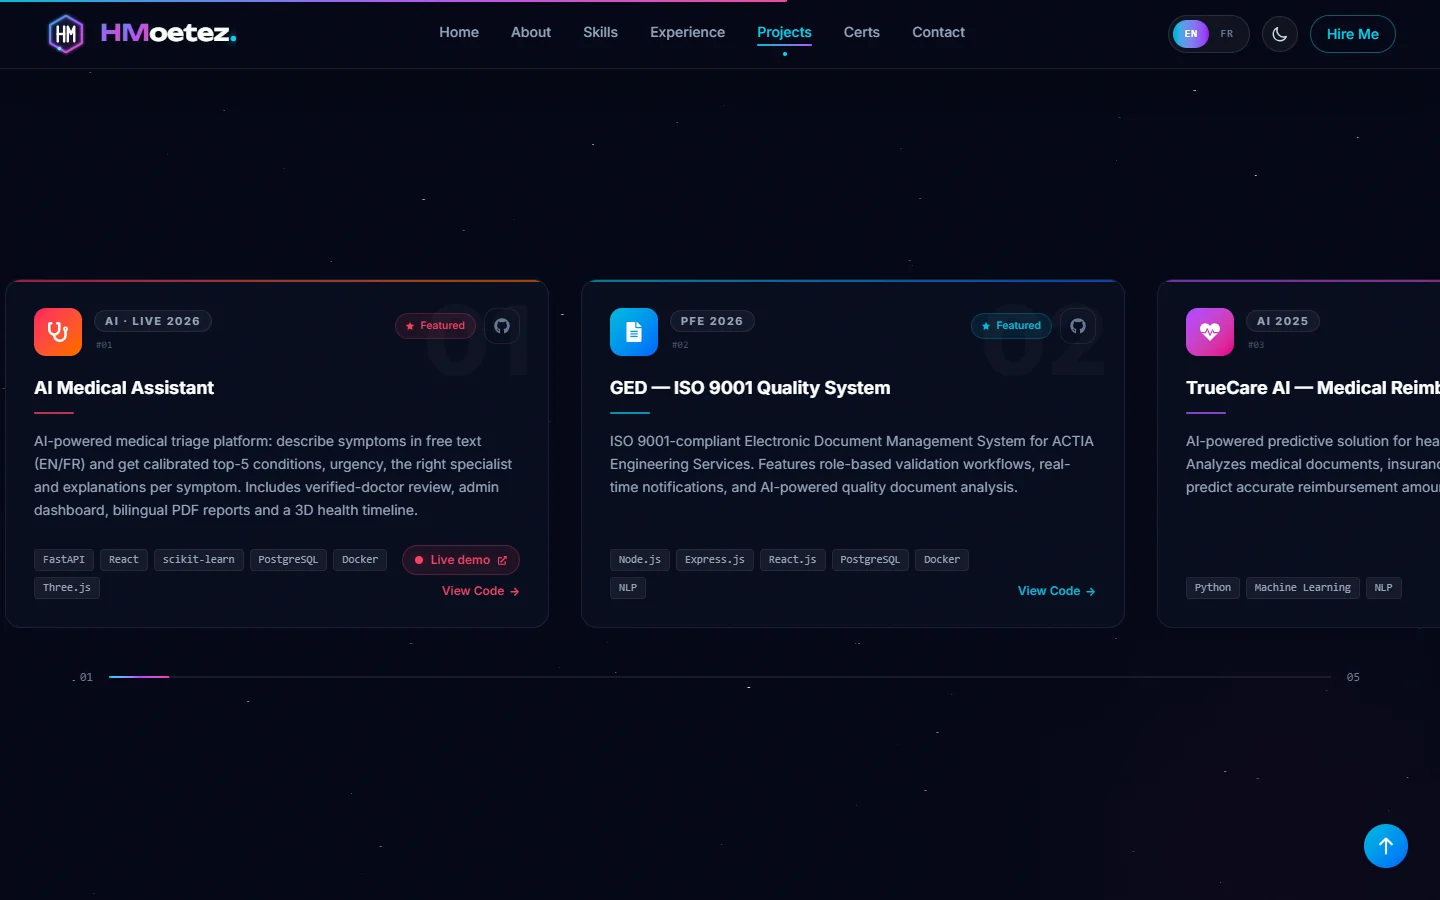
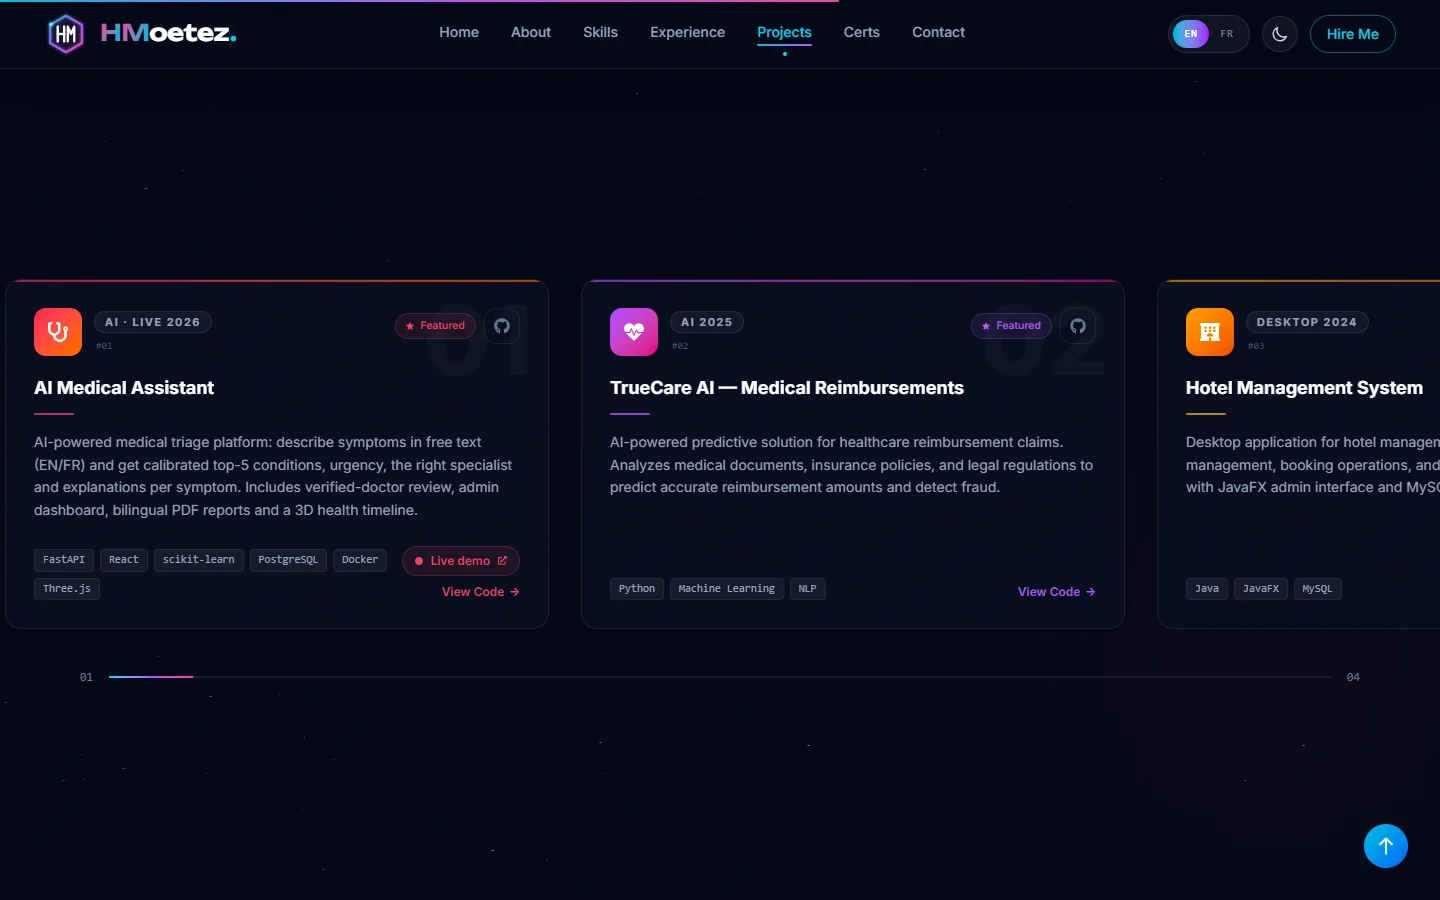
Remove the private GED project from Projects
The SMQ_GED repository is private, so its card linked to a 404 for
visitors. The ACTIA internship stays in the Experience section.

diff --git a/src/data/portfolio.js b/src/data/portfolio.js
@@ -124,17 +124,6 @@ export const projects = [
     featured: true,
   },
   {
-    title: "GED — ISO 9001 Quality System",
-    subtitle: { en: "PFE 2026", fr: "PFE 2026" },
-    description: {
-      en: "ISO 9001-compliant Electronic Document Management System for ACTIA Engineering Services. Features role-based validation workflows, real-time notifications, and AI-powered quality document analysis.",
-      fr: "Système de gestion électronique de documents conforme ISO 9001 pour ACTIA Engineering Services. Workflows de validation par rôle, notifications en temps réel et analyse IA de la qualité des documents.",
-    },
-    tags: ["Node.js", "Express.js", "React.js", "PostgreSQL", "Docker", "NLP"],
-    github: "https://github.com/HMotez/SMQ_GED",
-    featured: true,
-  },
-  {
     title: "TrueCare AI — Medical Reimbursements",
     subtitle: { en: "AI 2025", fr: "IA 2025" },
     description: {

diff --git a/src/components/Projects.jsx b/src/components/Projects.jsx
@@ -17,11 +17,6 @@ const projectConfig = {
     color: "#f43f5e",
     gradient: "from-rose-500 to-orange-500",
   },
-  "GED — ISO 9001 Quality System": {
-    Icon: FaFileAlt,
-    color: "#06b6d4",
-    gradient: "from-cyan-500 to-blue-600",
-  },
   "TrueCare AI — Medical Reimbursements": {
     Icon: FaHeartbeat,
     color: "#a855f7",

diff --git a/README.md b/README.md
@@ -76,7 +76,6 @@ built with React, Three.js and Framer Motion, in English and French, dark and li
 | Project | Stack | Links |
 |---|---|---|
 | **AI Medical Assistant** — AI triage: symptoms in free text (EN/FR) → calibrated top-5 conditions, urgency, specialist, verified-doctor review | FastAPI, React, scikit-learn, PostgreSQL, Docker | [Live demo](https://medai-hmotez.onrender.com) · [Code](https://github.com/HMotez/AI-Medical-Assistant) |
-| **GED — ISO 9001 Quality System** — document management for ACTIA Engineering Services (final-year internship) | Node.js, Express, React, PostgreSQL, Docker, NLP | Private (company project) |
 | **TrueCare AI** — medical reimbursement prediction and fraud detection | Python, Machine Learning, NLP | [Code](https://github.com/HMotez/MedClaimML) |
 | **Hotel Management System** — desktop app for staff, rooms and bookings | Java, JavaFX, MySQL | [Code](https://github.com/HMotez/HotelSystem) |
 | **University SOA System** — REST + SOAP services with JWT | Spring Boot, Java, Docker | [Code](https://github.com/HMotez/University-SOA) |
